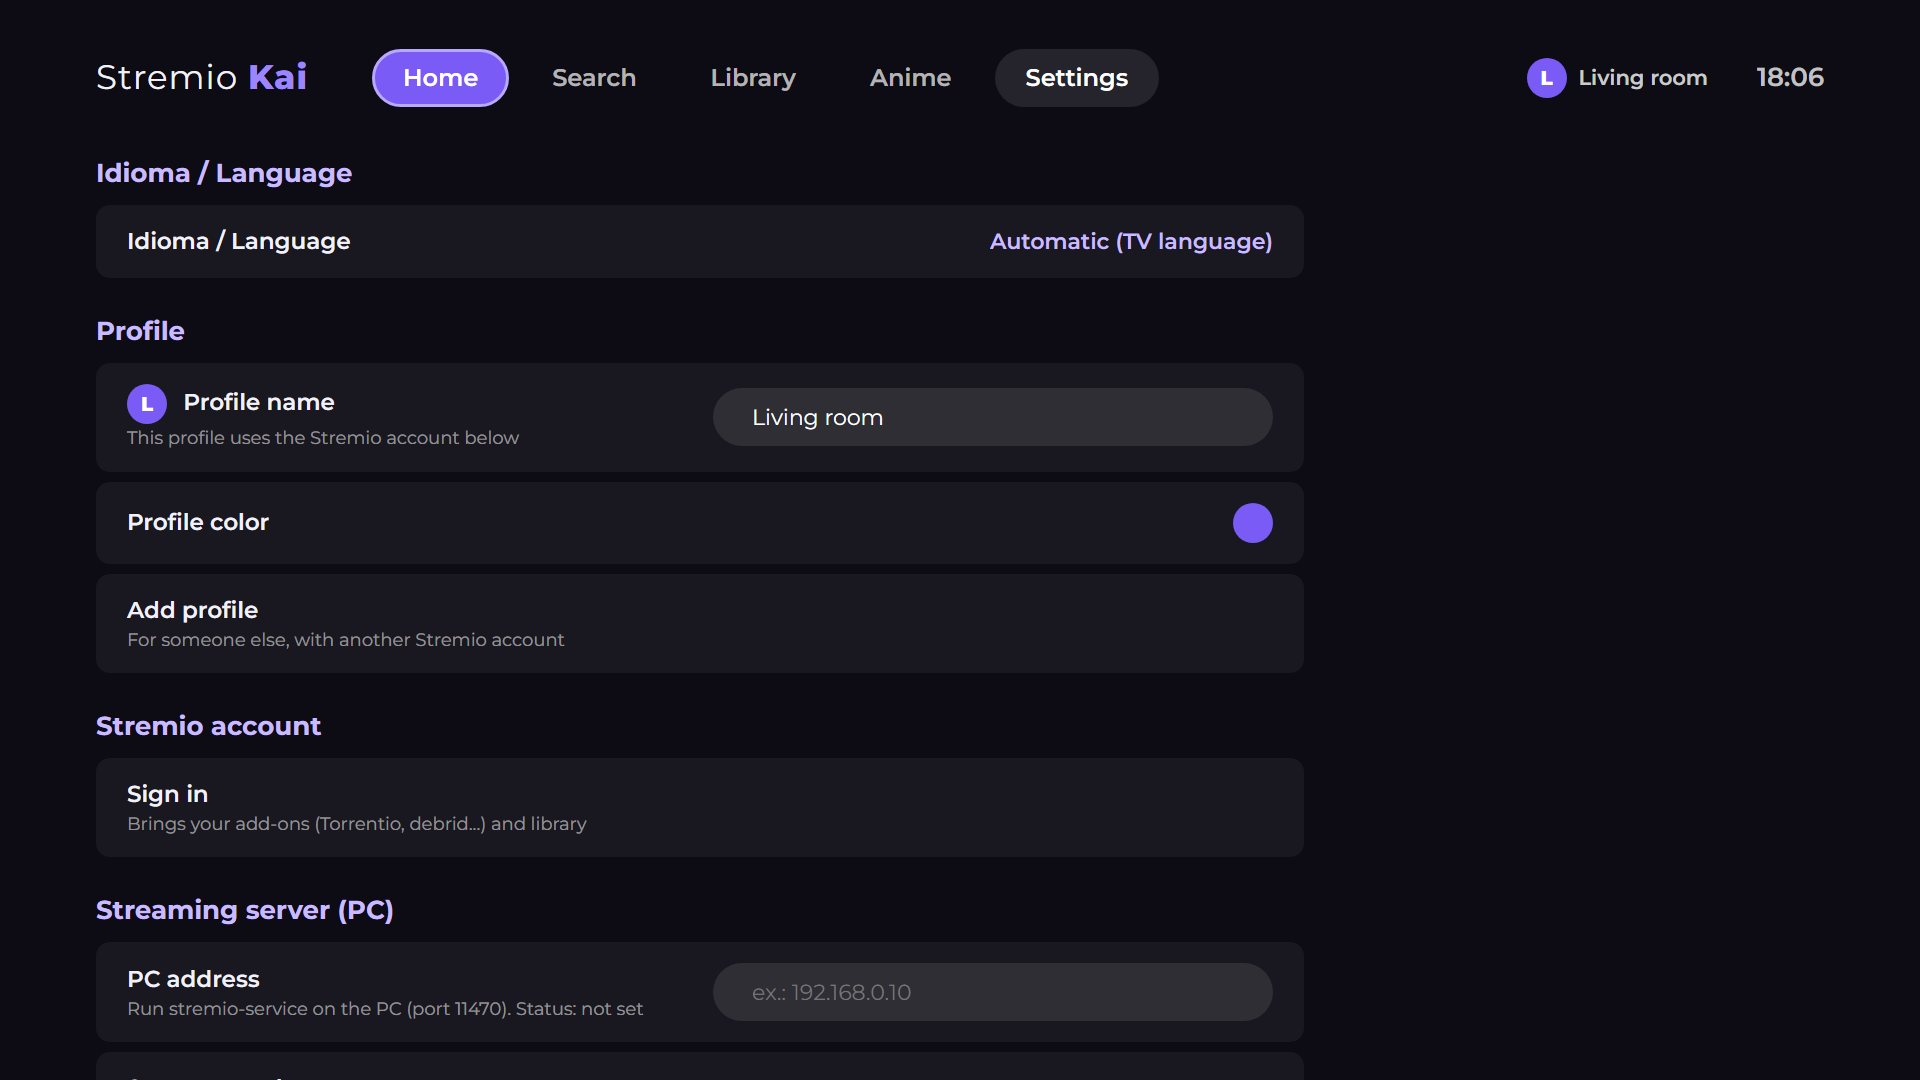
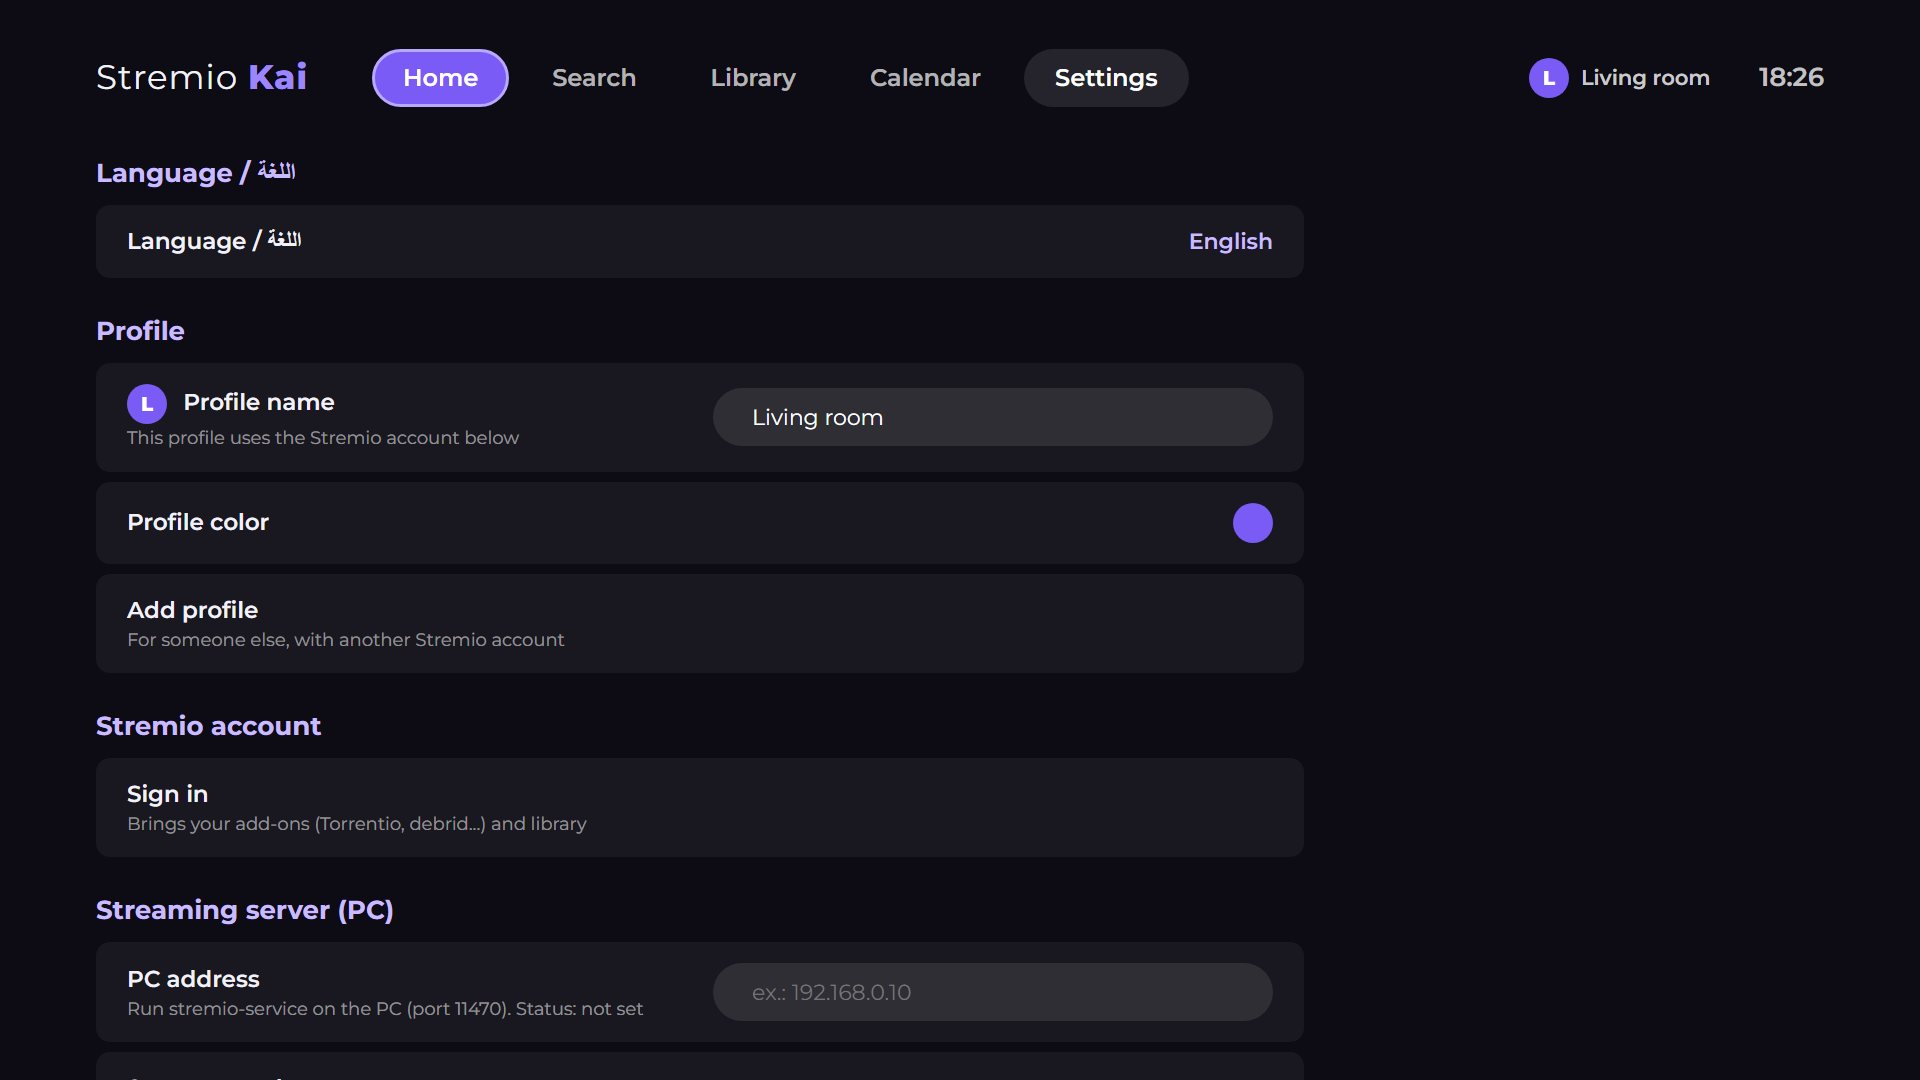
README: Smart Choice, release calendar and Arabic, with updated screenshots

diff --git a/README.md b/README.md
@@ -24,19 +24,43 @@ on their own as you scroll down, so you never hit the end of a list.
 |---|---|
 | ![See all tile at the end of a row](docs/screenshots/see-all-row.jpg) | ![Full catalog grid](docs/screenshots/see-all-grid.jpg) |
 
+### Smart Choice
+Press **Watch** and the app picks the best source and starts playing, no source list to scroll
+through. It prefers direct (debrid) links, your add-ons' order, and files the TV plays well,
+skipping Dolby Vision, REMUX and very high bitrates when there's anything else. If a source won't
+start, it moves on to the next best one. **Sources** still shows the full list.
+
+![Watch with Smart Choice, and the Sources button](docs/screenshots/smart-choice.jpg)
+
 ### Search across all your add-ons
 Results from every add-on that supports search, grouped by movies and series.
 
 ![Search results](docs/screenshots/search.jpg)
 
-### Anime calendar
-What airs yesterday, today and this week, with air time, episode number and score.
+### Release calendar: anime, series and movies
+A week at a time, day by day:
+- **Anime:** every episode airing that day, including Chinese and Korean titles, with air
+  time, episode and score.
+- **Series:** new episodes from streaming services worldwide and US TV, with the network.
+- **Movies:** the day each film becomes available to stream at home (with a free
+  [TMDB](https://www.themoviedb.org/settings/api) key in Settings).
 
-![Anime release calendar](docs/screenshots/anime-calendar.jpg)
+| Anime | Series |
+|---|---|
+| ![Anime calendar](docs/screenshots/calendar-anime.jpg) | ![Series calendar](docs/screenshots/calendar-series.jpg) |
+
+### English and Arabic
+The whole app in **English** or **Arabic** (Settings → Language / اللغة, or automatic from the
+TV's language). Arabic switches to a right-to-left layout, while titles and synopses keep their
+own direction.
+
+| Home | Details |
+|---|---|
+| ![Arabic home screen](docs/screenshots/arabic-home.jpg) | ![Arabic details screen](docs/screenshots/arabic-details.jpg) |
 
 ### Profiles and settings
-"Who's watching?" profiles, each on its own Stremio account, plus language, theme, subtitle
-and streaming-server settings, all usable with the remote.
+"Who's watching?" profiles, each on its own Stremio account, plus language, Smart Choice,
+theme, subtitle and streaming-server settings, all usable with the remote.
 
 ![Settings](docs/screenshots/settings.jpg)
 
